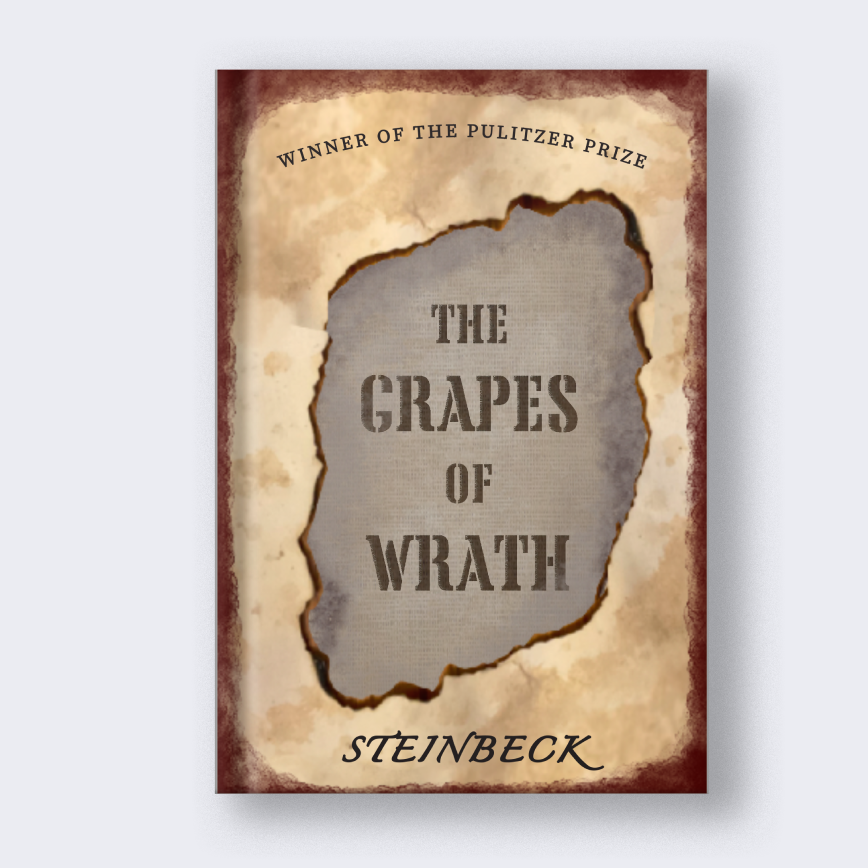
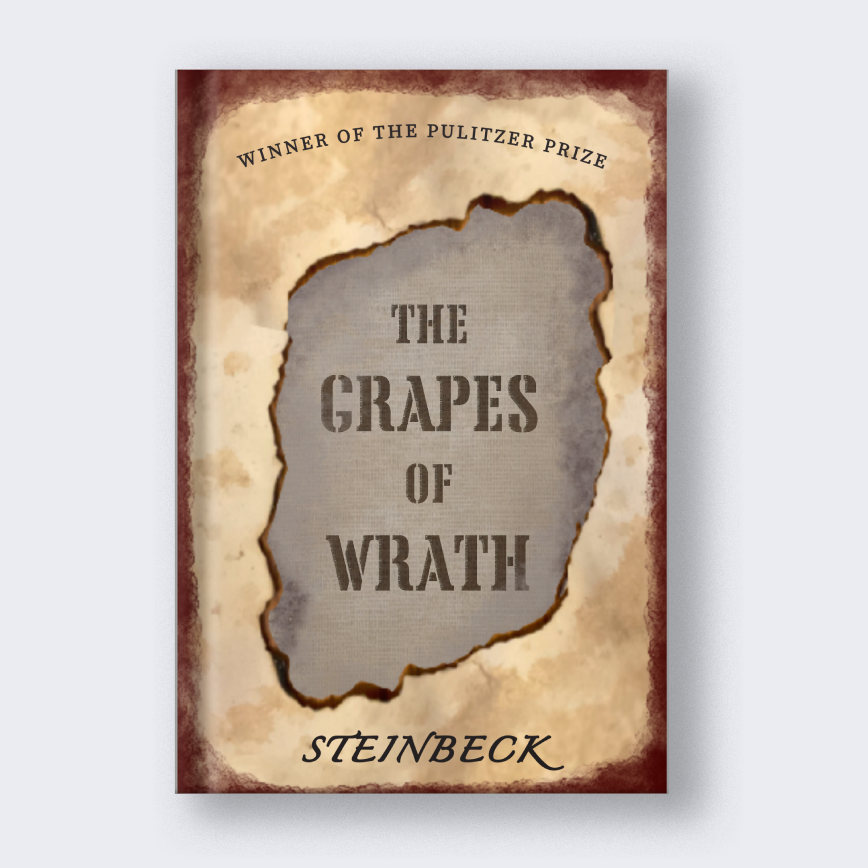
centered grapes of wrath

diff --git a/Spell_It.html b/Spell_It.html
@@ -69,7 +69,8 @@
 					<p>Many children find learning to spell boring and repetitive, and struggle to retain words through reading and writing alone.</p>
 					<p>We created a speech recognition mobile app where kids can learn to spell in a playful, engaging way.</p>
 					<div class="margin-1"></div>
-					<p class="tags"><strong>View:</strong><a href="https://www.figma.com/proto/DyhUbfsJV8HGp9rjJOIsoL/SpellIt?node-id=19%3A8829&scaling=scale-down&page-id=1%3A10330&starting-point-node-id=19%3A10024">Prototype</a>
+					<p class="tags"><strong>High fidelity mobile prototype:</strong><a href="https://www.figma.com/proto/DyhUbfsJV8HGp9rjJOIsoL/SpellIt?node-id=19%3A8829&scaling=scale-down&page-id=1%3A10330&starting-point-node-id=19%3A10024">Prototype</a>
+					<div class="margin-2"></div>
 				</div>
 			</div>
 			<div class="row">

diff --git a/contact1.html b/contact1.html
@@ -49,6 +49,7 @@
 				<div class="col-sm-6">
 					<div class="box dark-bg" style="background-image:url(img/sample-inside-dark.png)">
 						<h1>Contact Me</h1>
+						<div class="sep red"></div>
 						<p>Below is some info on how to reach me.<br></p>
 						<p class="small contact-address-info">
 							<i class="fa fa-map-marker"></i>
@@ -56,8 +57,7 @@
 						</p>
 						<p class="small contact-address-info">
 							<i class="fa fa-envelope"></i>
-							katyahassett@gmail.com<br>
-							katyahassett.com
+							katyahassett@gmail.com</br>
 						</p>
 						<p class="small contact-address-info">
 							<i class="fa fa-phone"></i>

diff --git a/about.html b/about.html
@@ -110,7 +110,7 @@
 				<div class="red-border col-sm-5 col-sm-offset-1">
 					<h4>Join the league!</h4>
 					<h4>Let's work together</h4>
-					<a href="#" class="button filled">Get in touch</a>
+					<a href="mailto:katyahassett@gmail.com" class="button filled">Get in touch</a>
 					<div class="margin-2"></div>
 				</div>
 				<div class="col-sm-5">
